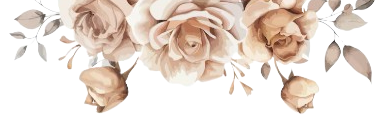
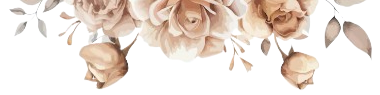
Mi boda AA

diff --git a/app/page.tsx b/app/page.tsx
@@ -22,7 +22,7 @@ useEffect(() => {
   const preloadImages = async () => {
     const allImages = [
       "/portada/top.png",
-      "/portada/left.png",
+      "/portada/left1.png",
       "/portada/right1.png",
       "/portada/bottom.png",
       "/portada/monograma.png",
